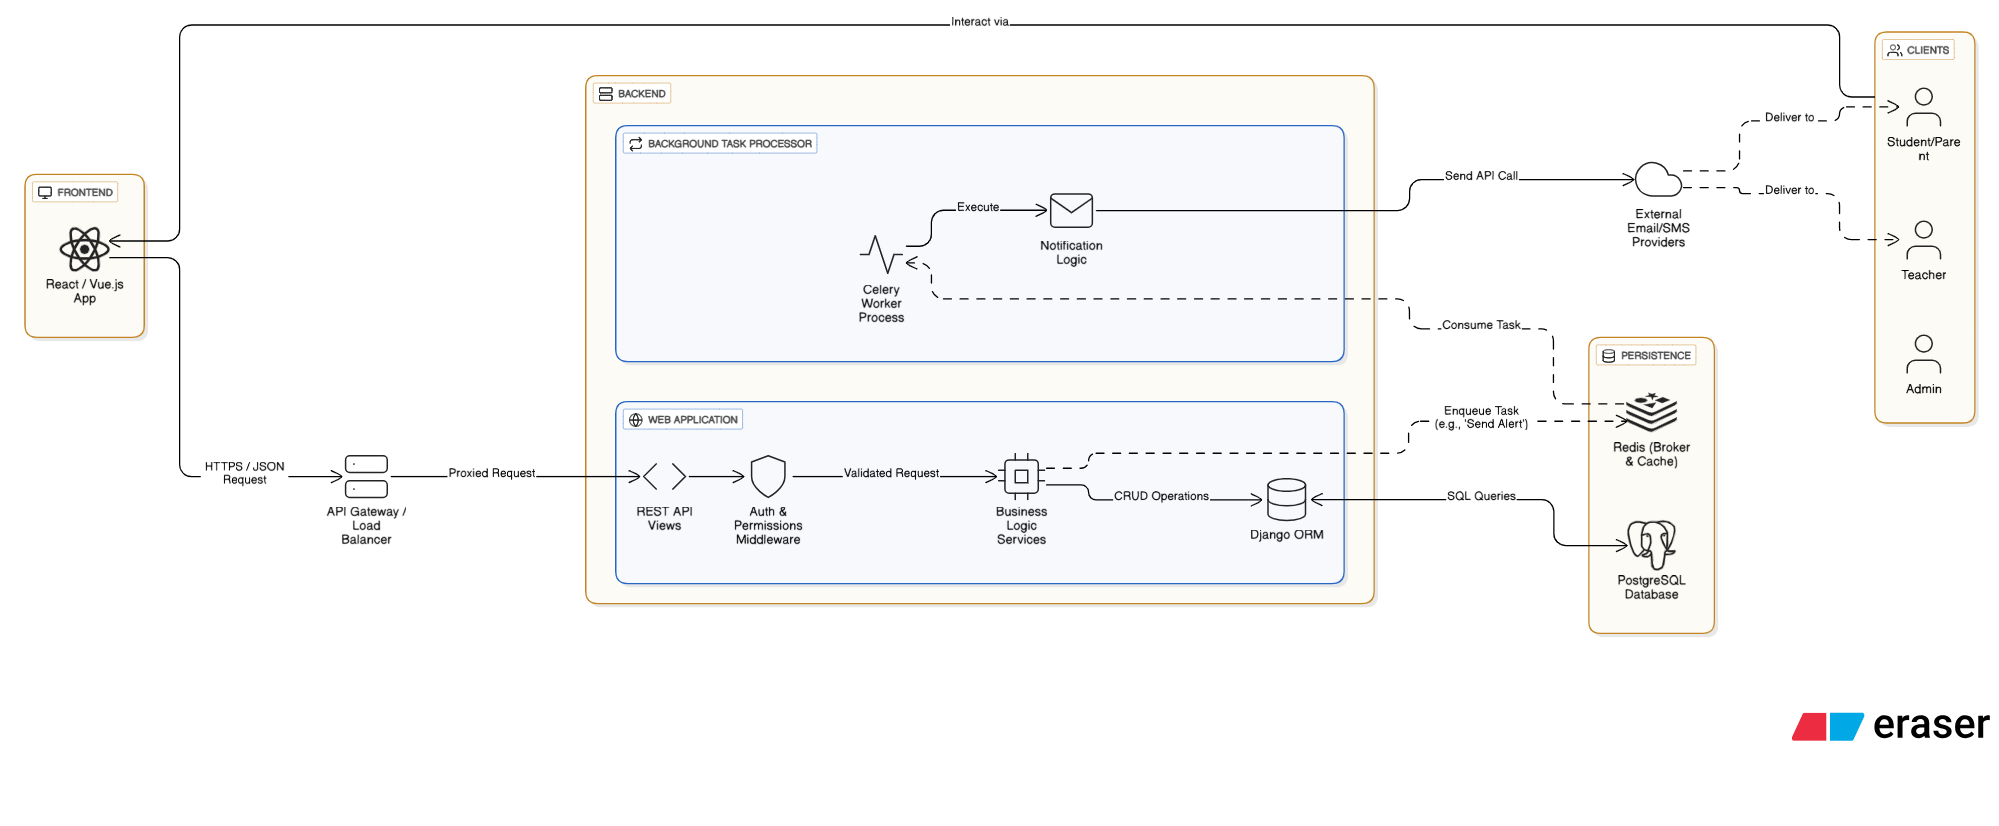
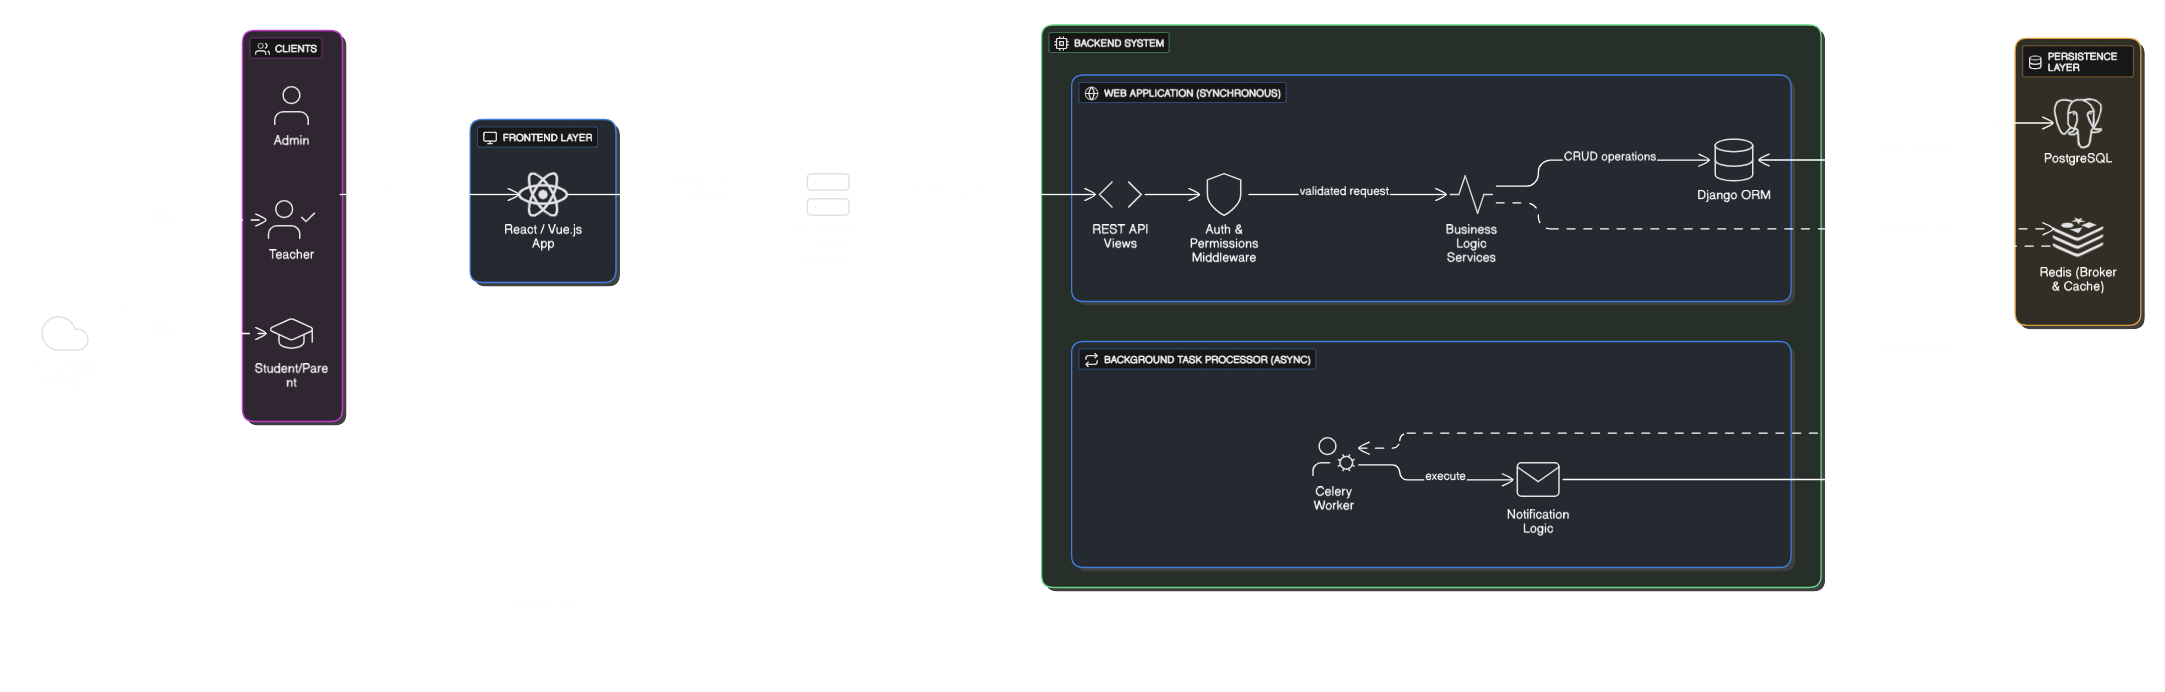
Updated module architecture image

diff --git a/Readme.md b/Readme.md
@@ -15,7 +15,7 @@ The data module is designed for PostgreSQL, utilizing a normalized relational sc
 
 The following diagram illustrates the relationships between Users, Events, Venues, and the Feedback system.
 
-![ERD_img]('docs/Datamodel_diagram.png')
+![ERD_img](https://github.com/AlphaSpider/EMS---Event-Facilitation-module/blob/6a19fa6a814efd7d7cf59bcbcfde6fba61e842fb/docs/Datamodel_diagram.png)
 
 ### Key Design Decisions
 
@@ -52,7 +52,7 @@ This workflow ensures that all events are vetted by the administration before re
 
 * If Rejected: Status changes to REJECTED. Reason for rejection sent to Teacher.
 
-![Workflow_img]('docs/Workflow.png')
+![Workflow_img](https://github.com/AlphaSpider/EMS---Event-Facilitation-module/blob/6a19fa6a814efd7d7cf59bcbcfde6fba61e842fb/docs/Workflow.png)
 
 #### B. Venue & Resource Allocation Workflow
 This prevents double-booking and ensures logistics are handled automatically.
@@ -170,6 +170,7 @@ This prevents double-booking and ensures logistics are handled automatically.
     The system follows a layered architecture, separating the Presentation Layer (Frontend), Business Logic Layer (Backend API), and Data Layer (PostgreSQL). Crucially, it employs an Asynchronous Task Queue (Celery + Redis) to decouple time-consuming operations from the main request-response cycle.
 </p>
 
+![architecture_img]()
 
 
 ### Component Breakdown
